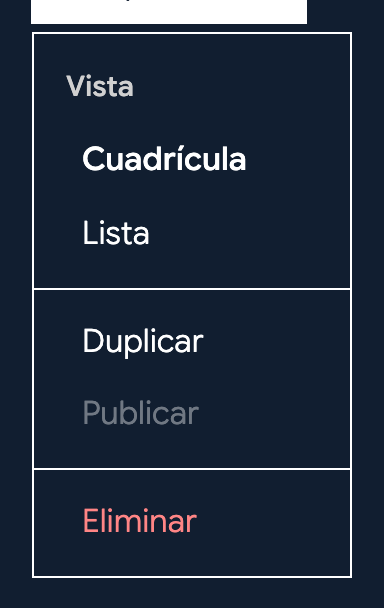
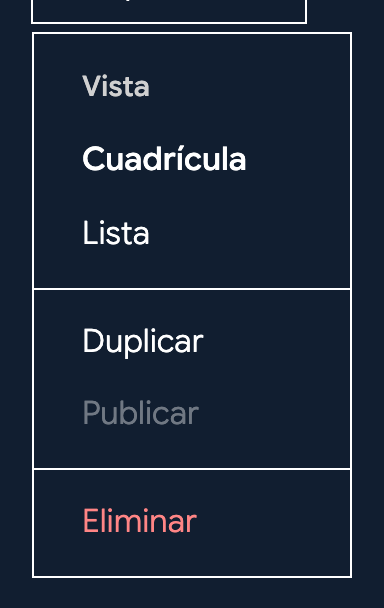
fix(menu): el texto del rótulo de sección, alineado con el del ítem (D49)
El rótulo (`.menu__label`) quedaba a 16 px del borde del panel y el texto
del ítem a 24 (margen `menu.padding-inline` 8 + relleno
`menu.item-padding-inline` 16). Ahora el rótulo replica la caja del ítem en
el eje inline, por tokens que apuntan a los del ítem:

- `menu.label-margin-inline` (nuevo) → `{menu.padding-inline}`
- `menu.label-padding-inline` → `{menu.item-padding-inline}` (antes
  `{spacing.4}`, mismo valor)

La referencia es el borde inicial del contenido del ítem: su texto o, si
lleva icono, el icono (los radio no llevan glifo).

Android: `BrandMenuPanel` pinta el rótulo con `labelMarginInline` +
`labelPaddingInline` (de 16 a 24 dp), como `MenuRow`. iOS no aplica: el
panel es el `Menu` del sistema y los rótulos son `Section`.

Story `Test — el texto del rótulo se alinea con el del ítem` (compara el
borde izquierdo del texto con un `Range`). Regrabadas las capturas de
Paparazzi con rótulo y las parejas «radio» y «mixto» de
native/android/Comparisons/Menu/.

Claude-Session: https://claude.ai/code/session_01TgFyWwWQRDkhxQPB1RhMMC

Changed region(s): [[0.0625, 0.0, 0.8125, 0.0625], [0.1562, 0.125, 0.4062, 0.1562]]

diff --git a/src/tokens/molecules/menu.css b/src/tokens/molecules/menu.css
@@ -17,7 +17,6 @@
   --menu-item-font-size: var(--font-size-2); /** Tamaño de texto de ítems */
   --menu-item-line-height: var(--line-height-snug); /** Interlineado de ítems */
   --menu-label-padding-block: var(--spacing-2); /** Padding vertical del rótulo de sección */
-  --menu-label-padding-inline: var(--spacing-4); /** Padding horizontal del rótulo de sección */
   --menu-label-font-size: var(--font-size-1); /** Tamaño de texto del rótulo de sección */
   --menu-disabled-opacity: var(--opacity-disabled); /** Opacidad de ítems deshabilitados */
   --menu-z-index: var(--floating-panel-z-index); /** Capa z del panel flotante */
@@ -34,6 +33,8 @@
   --menu-item-destructive-color: var(--color-destructive-text-on-light); /** Color de texto de ítem destructivo */
   --menu-item-destructive-highlighted-bg: var(--color-destructive-fill); /** Relleno del ítem destructivo resaltado: el rojo sólido, universal en las dos superficies */
   --menu-item-destructive-highlighted-color: var(--color-destructive-fill-text); /** Texto del ítem destructivo resaltado */
+  --menu-label-margin-inline: var(--menu-padding-inline); /** Margen lateral del rótulo de sección: el mismo `margin-inline` que el ítem (`menu.padding-inline`), para que su texto quede alineado con el del ítem por construcción */
+  --menu-label-padding-inline: var(--menu-item-padding-inline); /** Padding horizontal del rótulo de sección: el mismo que el del ítem (`menu.item-padding-inline`). Con `label-margin-inline`, el texto del rótulo arranca donde arranca el contenido del ítem (su texto o, si lo lleva, su icono) */
   --menu-label-font-weight: var(--font-weight-emphasis); /** Peso del rótulo de sección */
   --menu-label-color: var(--color-text-muted-on-light); /** Color del rótulo de sección */
   --menu-separator-margin-block: var(--separator-spacing-md); /** Margen vertical del separador — el aire md de la línea del sistema */

diff --git a/src/stories/molecules/Menu/Menu.stories.tsx b/src/stories/molecules/Menu/Menu.stories.tsx
@@ -360,3 +360,42 @@ export const ContratoAnchoItemEnlace: Story = {
       .toBeCloseTo(ocultar.getBoundingClientRect().width, 0);
   },
 };
+
+/** Borde izquierdo del texto de un nodo: el de su primer nodo de texto, medido con un `Range`. */
+function textLeft(el: Element): number {
+  const walker = document.createTreeWalker(el, NodeFilter.SHOW_TEXT);
+  const node = walker.nextNode();
+  if (!node) throw new Error('sin texto');
+  const range = document.createRange();
+  range.selectNodeContents(node);
+  return range.getBoundingClientRect().left;
+}
+
+/**
+ * Test: el texto del rótulo de sección arranca donde arranca el del ítem
+ * (D49). El rótulo replica la caja del ítem en el eje inline —su margen y su
+ * relleno apuntan a `menu.padding-inline` y `menu.item-padding-inline`—; antes
+ * le faltaba el margen y quedaba 8 px más a la izquierda.
+ */
+export const ContratoRotuloAlineado: Story = {
+  name: 'Test — el texto del rótulo se alinea con el del ítem',
+  tags: ['!dev'],
+  args: {
+    trigger: <Button variant="outline">Vista</Button>,
+    items: [
+      { type: 'label', label: 'Orden' },
+      { type: 'button', label: 'Por fecha', onClick: () => {} },
+      { type: 'button', label: 'Por nombre', onClick: () => {} },
+    ],
+  },
+  play: async ({ canvasElement }) => {
+    const canvas = within(canvasElement);
+    await userEvent.click(canvas.getByRole('button', { name: 'Vista' }));
+
+    const body = within(document.body);
+    const item = await body.findByRole('menuitem', { name: 'Por fecha' });
+    const rotulo = await body.findByText('Orden');
+
+    await waitFor(() => expect(textLeft(rotulo)).toBeCloseTo(textLeft(item), 0));
+  },
+};

diff --git a/native/android/brand/src/main/kotlin/com/studiolxd/brand/components/menu/BrandMenu.kt b/native/android/brand/src/main/kotlin/com/studiolxd/brand/components/menu/BrandMenu.kt
@@ -280,9 +280,9 @@ private fun BrandMenuPopup(expanded: Boolean, onDismissRequest: () -> Unit, alig
 
 /**
  * El panel del menú: fondo y borde de `menu.*`, con el aire `menu.padding-block` arriba y abajo y los ítems inseteados
- * `menu.padding-inline`; los separadores van de borde a borde y el rótulo de sección solo lleva su `menu.label-padding-inline`
- * desde el borde del panel (en React `.menu__label` no tiene el `margin-inline` de los ítems). Interno: también lo pintan
- * las capturas.
+ * `menu.padding-inline`; los separadores van de borde a borde y el rótulo de sección replica la caja del ítem en horizontal
+ * (`menu.label-margin-inline` + `menu.label-padding-inline`, que apuntan a los del ítem), así que su texto arranca donde
+ * arranca el contenido del ítem, como `.menu__label` en React. Interno: también lo pintan las capturas.
  */
 @Composable
 internal fun BrandMenuPanel(
@@ -321,7 +321,10 @@ internal fun BrandMenuPanel(
                 )
                 is BrandMenuItem.Label -> BasicText(
                     item.text,
-                    modifier = Modifier.fillMaxWidth().padding(horizontal = T.labelPaddingInline, vertical = T.labelPaddingBlock),
+                    modifier = Modifier
+                        .fillMaxWidth()
+                        .padding(horizontal = T.labelMarginInline)
+                        .padding(horizontal = T.labelPaddingInline, vertical = T.labelPaddingBlock),
                     style = brandTextStyle(T.labelFontSize, T.labelFontWeight, T.itemLineHeight, color = T.labelColor.current),
                 )
                 is BrandMenuItem.Button -> MenuRow(

diff --git a/src/tokens/scss/molecules/_menu.scss b/src/tokens/scss/molecules/_menu.scss
@@ -34,7 +34,8 @@ $lxd-menu-item-destructive-color: #b30000; // Color de texto de ítem destructiv
 $lxd-menu-item-destructive-highlighted-bg: #b30000; // Relleno del ítem destructivo resaltado: el rojo sólido, universal en las dos superficies
 $lxd-menu-item-destructive-highlighted-color: #ffffff; // Texto del ítem destructivo resaltado
 $lxd-menu-label-padding-block: 0.5rem; // Padding vertical del rótulo de sección
-$lxd-menu-label-padding-inline: 1rem; // Padding horizontal del rótulo de sección
+$lxd-menu-label-margin-inline: 0.5rem; // Margen lateral del rótulo de sección: el mismo `margin-inline` que el ítem (`menu.padding-inline`), para que su texto quede alineado con el del ítem por construcción
+$lxd-menu-label-padding-inline: 1rem; // Padding horizontal del rótulo de sección: el mismo que el del ítem (`menu.item-padding-inline`). Con `label-margin-inline`, el texto del rótulo arranca donde arranca el contenido del ítem (su texto o, si lo lleva, su icono)
 $lxd-menu-label-font-size: 0.875rem; // Tamaño de texto del rótulo de sección
 $lxd-menu-label-font-weight: 500; // Peso del rótulo de sección
 $lxd-menu-label-color: #4a4a4a; // Color del rótulo de sección

diff --git a/native/apple/Sources/StudiolxdBrand/Tokens/BrandComponentTokens.swift b/native/apple/Sources/StudiolxdBrand/Tokens/BrandComponentTokens.swift
@@ -1802,7 +1802,9 @@ public enum BrandMenuTokens {
     public static let itemDestructiveHighlightedColor: Color = Color(brandHex: 0xFFFFFF)
     /// Token `menu.label-padding-block` — Padding vertical del rótulo de sección
     public static let labelPaddingBlock: CGFloat = 8
-    /// Token `menu.label-padding-inline` — Padding horizontal del rótulo de sección
+    /// Token `menu.label-margin-inline` — Margen lateral del rótulo de sección: el mismo `margin-inline` que el ítem (`menu.padding-inline`), para que su texto quede alineado con el del ítem por construcción
+    public static let labelMarginInline: CGFloat = 8
+    /// Token `menu.label-padding-inline` — Padding horizontal del rótulo de sección: el mismo que el del ítem (`menu.item-padding-inline`). Con `label-margin-inline`, el texto del rótulo arranca donde arranca el contenido del ítem (su texto o, si lo lleva, su icono)
     public static let labelPaddingInline: CGFloat = 16
     /// Token `menu.label-font-size` — Tamaño de texto del rótulo de sección
     public static let labelFontSize: CGFloat = 14

diff --git a/native/android/brand/src/main/kotlin/com/studiolxd/brand/tokens/BrandComponentTokens.kt b/native/android/brand/src/main/kotlin/com/studiolxd/brand/tokens/BrandComponentTokens.kt
@@ -1811,7 +1811,9 @@ object BrandMenuTokens {
     val itemDestructiveHighlightedColor: BrandSchemeValue<Color> = BrandSchemeValue(Color(0xFFFFFFFF), Color(0xFFFFFFFF))
     /** Token `menu.label-padding-block` — Padding vertical del rótulo de sección */
     val labelPaddingBlock: Dp = 8.dp
-    /** Token `menu.label-padding-inline` — Padding horizontal del rótulo de sección */
+    /** Token `menu.label-margin-inline` — Margen lateral del rótulo de sección: el mismo `margin-inline` que el ítem (`menu.padding-inline`), para que su texto quede alineado con el del ítem por construcción */
+    val labelMarginInline: Dp = 8.dp
+    /** Token `menu.label-padding-inline` — Padding horizontal del rótulo de sección: el mismo que el del ítem (`menu.item-padding-inline`). Con `label-margin-inline`, el texto del rótulo arranca donde arranca el contenido del ítem (su texto o, si lo lleva, su icono) */
     val labelPaddingInline: Dp = 16.dp
     /** Token `menu.label-font-size` — Tamaño de texto del rótulo de sección */
     val labelFontSize: TextUnit = 14.sp

diff --git a/src/stories/molecules/Menu/Menu.css b/src/stories/molecules/Menu/Menu.css
@@ -111,9 +111,13 @@
   height: var(--menu-item-icon-size);
 }
 
+/* El rótulo de sección replica la caja del ítem en el eje inline —el mismo
+   margen y el mismo relleno, por tokens que apuntan a los del ítem—, así que
+   su texto arranca donde arranca el contenido del ítem (D49). */
 .menu__label {
   padding-block: var(--menu-label-padding-block);
   padding-inline: var(--menu-label-padding-inline);
+  margin-inline: var(--menu-label-margin-inline);
   font-family: var(--menu-item-font-family);
   font-size: var(--menu-label-font-size);
   font-weight: var(--menu-label-font-weight);
